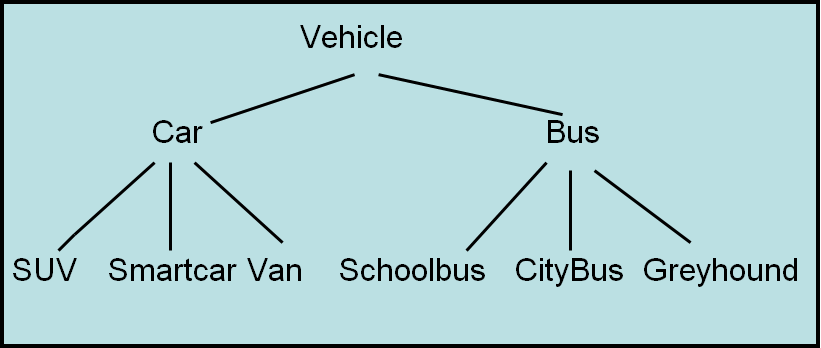
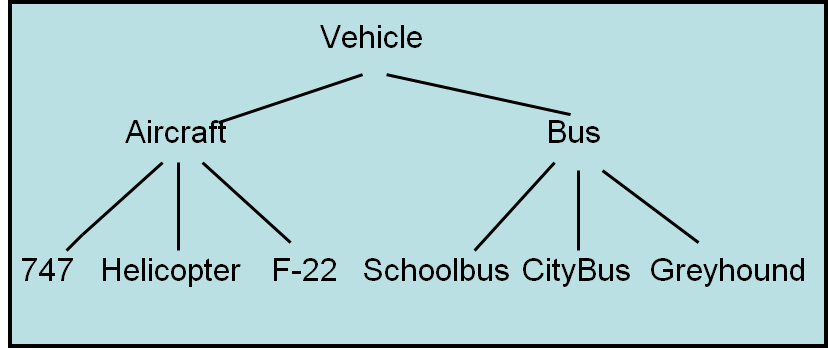
Update vehicle example and add bag heirarchy with Object

diff --git a/src/site/topic14.rst b/src/site/topic14.rst
@@ -5,19 +5,21 @@ Topic #14 --- Inheritance
 * Inheritance is a way to derive a new class from an existing one
 * This allows us to *inherit* functionality from the original class
 
-* Consider the hierarchies below
-* Notice how the top element is the most general of all things included
-* As you move down the three, the things get more and more specific
-* But as you move down, the things are still a type of the element at the top
-    * A ``SortedBag`` *is a* ``Bag``
-
-* This hierarchical thinking exists in real life too,
-    * But we should be careful not to translate what makes sense in real life to our code
-
 .. image:: img/inheritance_vehicle.png
    :width: 500 px
    :align: center
 
+* Notice how the top element is the most general of all things included
+* As you move down the tree, the things get more and more specific
+* But as you move down, the things are still a type of the element at the top
+    * In our bag examples, a ``SortedBag`` *is a* ``Bag``
+
+.. image:: img/inheritance_bag.png
+   :width: 500 px
+   :align: center
+
+* This hierarchical thinking exists in real life too,
+    * But we should be careful not to translate what makes sense in real life to our code
 
 
 For next time
